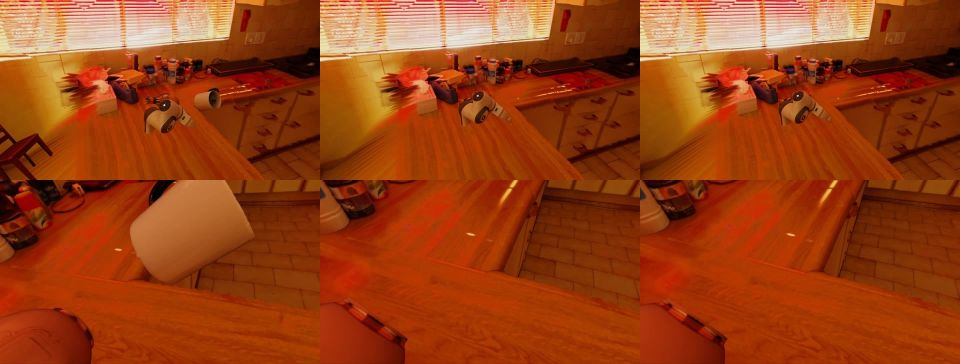
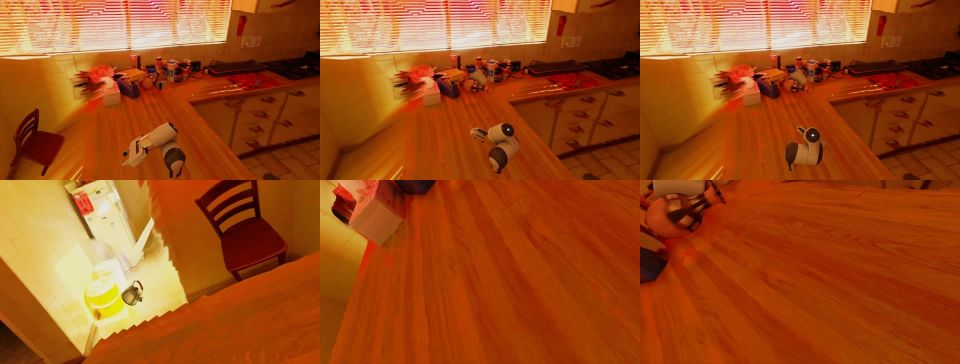
sim/asset_gen/arena.py: the robot at the capture point, objects turned by their yaw
The robot spawns where the panorama was taken (the scene frame's origin), and each object gets its pose.json yaw as a
rotate_around_solution relation besides its position.

Claude-Session: https://claude.ai/code/session_01EJKf9McQXz8YGLv6tvkGdt

diff --git a/sim/asset_gen/arena.py b/sim/asset_gen/arena.py
@@ -8,9 +8,8 @@ its background (background.py's mesh room or colmap_splat's splat), with a Frank
     uv run sim/asset_gen/arena.py datasets/asset_gen/<scene> --pick <asset> --place <asset> [--out <spec.yaml>]
 
 Prints the environment for sim/isaaclab_arena/envgen.sh: ARENA_ASSET_DIR (the objects), ARENA_SPLAT_SCENE (the
-background) and ARENA_SPLAT_ORIGIN, where the robot stands in the scene frame: by default 0.5 m from the picked object
-towards the capture point, on the floor, since the panorama saw the objects from there. Arena's frame is the scene
-frame shifted to that point; positions in the spec are in it.
+background) and ARENA_SPLAT_ORIGIN, where the robot spawns: the panorama's capture point, the scene frame's origin, so
+Arena's frame is the scene frame. Each object stands at its pose.json position, turned by its yaw.
 """
 
 import argparse
@@ -18,19 +17,13 @@ import json
 import math
 from pathlib import Path
 
-# m from the picked object to the robot's base (untuned). On the kitchen's 1 m counter the base stood inside the counter
-# and the arm knocked the cup over: counter tasks need the robot on a stand or a mobile base.
-REACH = 0.5
-
 
 def run(root: Path, pick: str, place: str, out: Path, background: Path | None = None):
     objects = {p.parent.name: json.loads(p.read_text()) for p in sorted((root / "objects").glob("*/pose.json"))}
     for a in (pick, place):
         if a not in objects:
             raise SystemExit(f"{a}: not among {', '.join(objects)}")
-    x, y = objects[pick]["position"][:2]
-    d = math.hypot(x, y)
-    ox, oy = (x - REACH * x / d, y - REACH * y / d) if d > REACH else (0.0, 0.0)
+    ox, oy = 0.0, 0.0                                                 # the capture point: the robot spawns there
     background = background or root / "background" / "scene.usda"
     lines = [f"env_name: {root.name}_generated",
              f"# Needs ARENA_SPLAT_SCENE={background}, ARENA_ASSET_DIR={root / 'objects'},",
@@ -46,6 +39,8 @@ def run(root: Path, pick: str, place: str, out: Path, background: Path | None = 
         # Where the session saw it, 1 cm up so it settles onto its surface (the room collides) rather than into it.
         lines.append(f"- {{kind: at_position, subject: gen_{a}, params: {{x: {px - ox:.3f}, y: {py - oy:.3f}, "
                      f"z: {pz + 0.01:.3f}}}}}")
+        yaw = math.radians((p["yaw_deg"] + 180) % 360 - 180)            # asset_gen's fit: the turn about z, as Arena's
+        lines.append(f"- {{kind: rotate_around_solution, subject: gen_{a}, params: {{yaw_rad: {yaw:.4f}}}}}")
     lines += ["task:", "  composition: atomic",
               f"  description: Franka picks up the {objects[pick]['label']} and places it at the "
               f"{objects[place]['label']}, in a kitchen generated from one panorama.",

diff --git a/sim/asset_gen/README.md b/sim/asset_gen/README.md
@@ -42,7 +42,7 @@ flowchart LR
    ```bash
    uv run sim/asset_gen/background.py <scene>_session.zip
    ```
-2. Write an Arena spec of the objects where the session saw them, with a Franka picking one and placing it at another; it prints the environment to export.
+2. Write an Arena spec of the objects where the session saw them (position and yaw), with a Franka at the capture point picking one and placing it at another; it prints the environment to export.
    ```bash
    uv run sim/asset_gen/arena.py datasets/asset_gen/<scene> --pick 06_cup --place 03_bottle
    ```
@@ -53,7 +53,7 @@ flowchart LR
 
 Notes:
 - The room is a static collider, so objects rest on its counters; it shows the photo as it is (emissive), whatever the sim's lights. View it from near the capture point: further away, what the panorama never saw shows.
-- The robot stands on the floor 0.5 m from the picked object (`ARENA_SPLAT_ORIGIN`); a Franka on the floor can't reach a 1 m counter from outside it, so give it a stand or a mobile base for counter tasks.
+- The robot spawns at the panorama's capture point (`ARENA_SPLAT_ORIGIN='0 0'`), and each object stands where the session saw it, turned by its `pose.json` yaw. A capture point next to a counter puts the robot's base against it.
 
 ## Model endpoints
 
